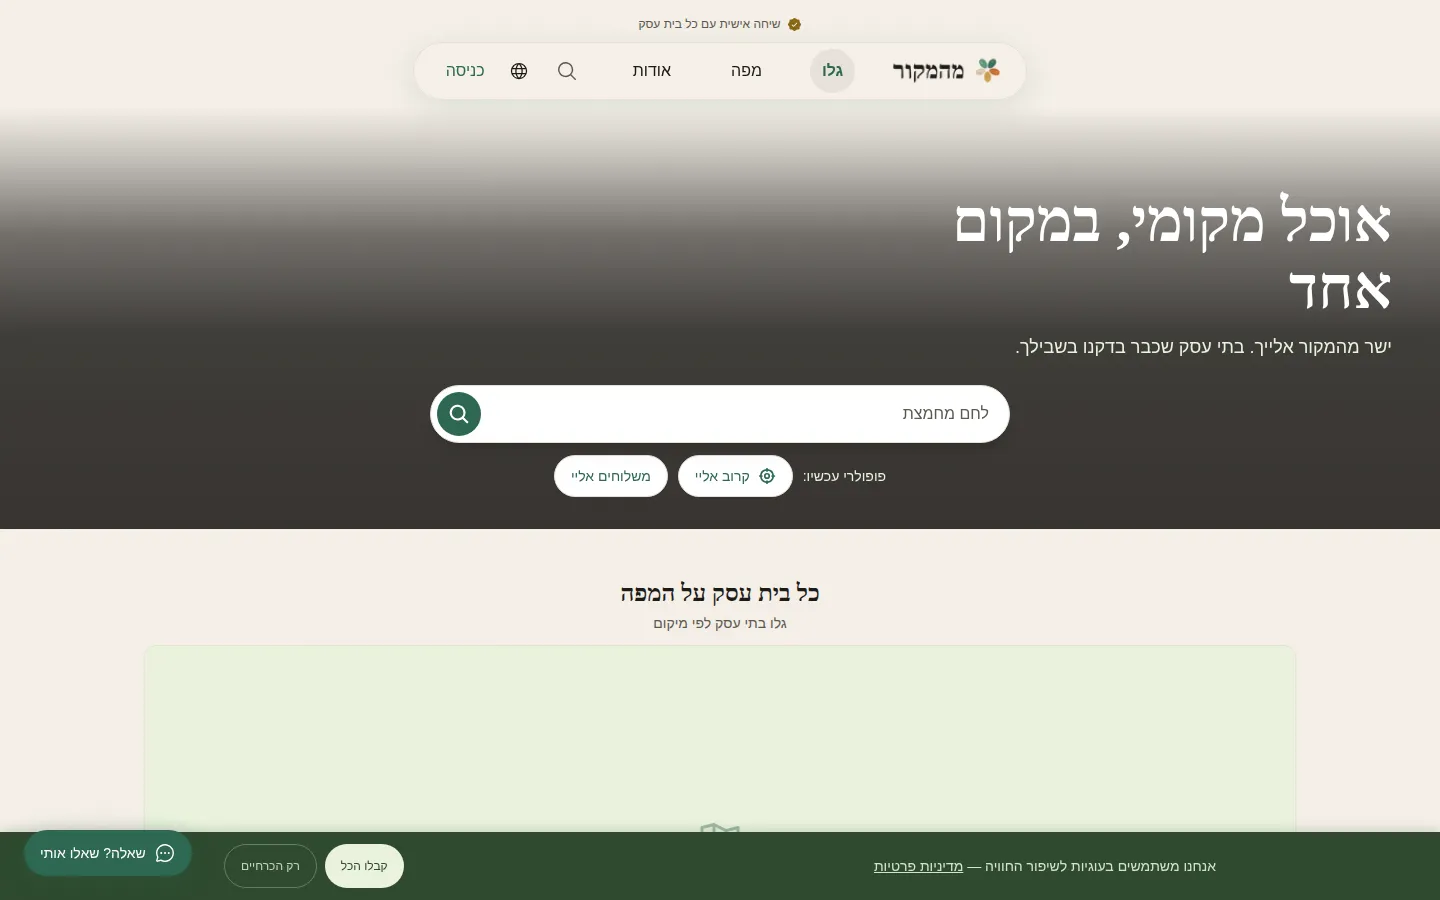
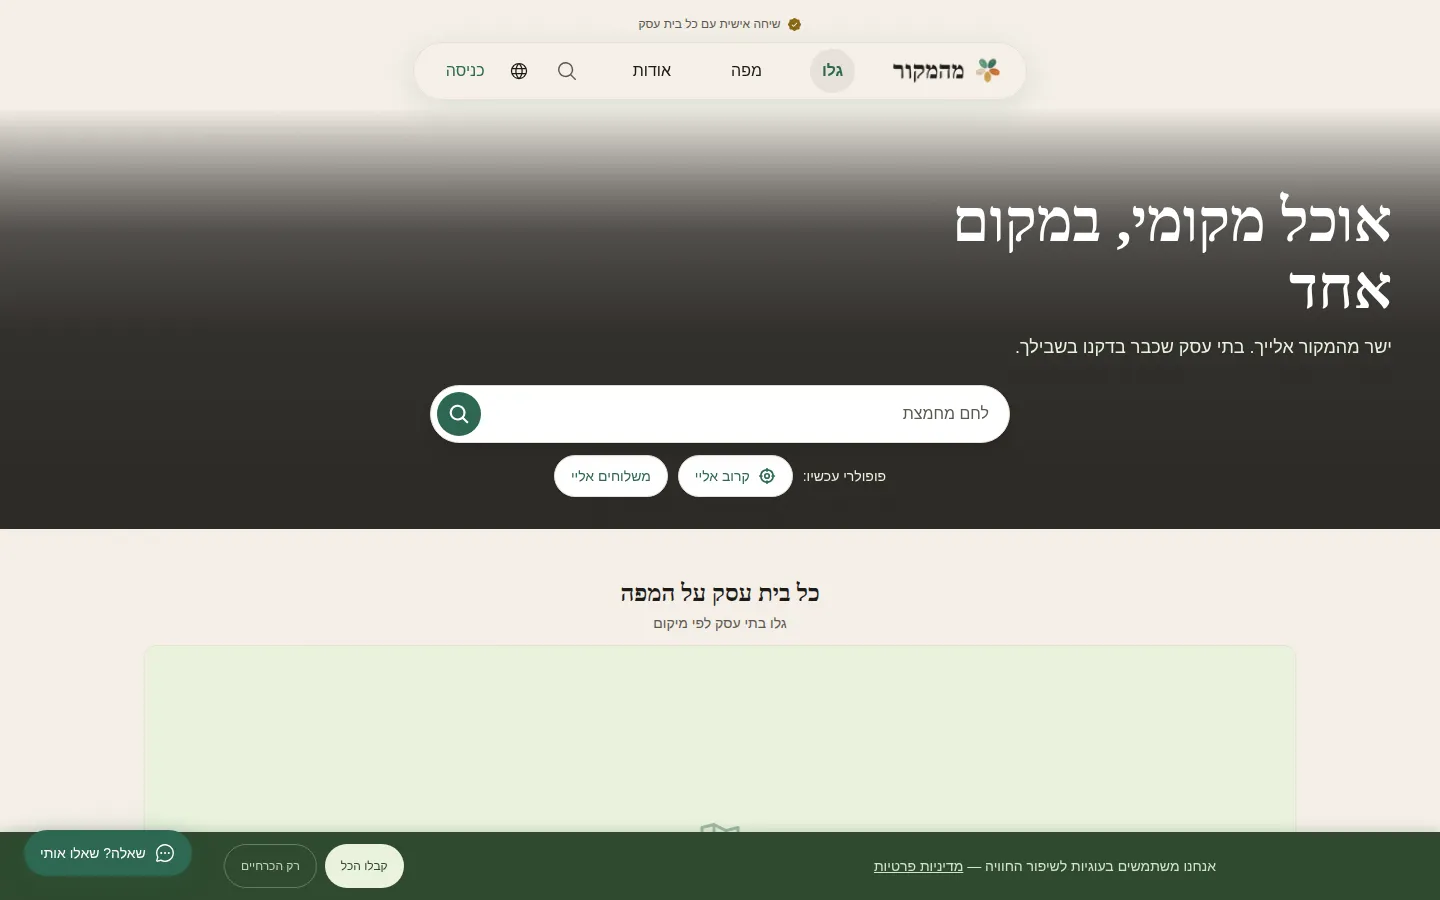
fix(home): restore the headline's AA margin the taller hero band consumed
Found by the local adversarial review, measured rather than argued.

`.scrim-ink` is a gradient over inset-0, so its stops are proportional to
the band height. Moving the pill and chips inside the band made it taller
and pushed the H1 from ~16% up the band to ~50% — into a far thinner part
of the same gradient. Worst case (the blown-white photo highlight that
globals.css:72 names), H1 top line:

  before  10.37:1 @375 · 8.41:1 @1440
  after    3.36:1 @375 · 3.54:1 @1440   ← under the mandatory 4.5:1

IS 5568 makes AA a legal requirement, and MEH-1771 set the precedent of
dropping an opacity-60 that measured 2.78:1 rather than shipping it. So
this is a fix, not a note. HEADLINE_SCRIM adds an absolute darkness floor
across the text zone that does not scale with band height, tapering to 0
at the top so the produce still reads: 5.89:1 / 6.10:1.

Raising the band's top padding was the other candidate and was rejected —
the arithmetic wants ~+118px on mobile, re-breaking the ~700-800px laptop
fold MEH-788 exists to protect. `.scrim-ink` itself is untouched: it is
shared, and the bottom band it draws is still correct.

The probe that caught this had to be rewritten first, and that is the more
transferable finding. Its first version re-implemented the .scrim-ink
stops in JS and composited them arithmetically — so it consulted a COPY of
the CSS instead of the page, returned byte-identical numbers before and
after a real scrim change, and could not have detected the regression it
[…]

Changed region(s): [[0.0, 0.1556, 1.0, 0.3422]]

diff --git a/frontend/app/[locale]/home/HomeHero.jsx b/frontend/app/[locale]/home/HomeHero.jsx
@@ -26,6 +26,33 @@ const HERO_IMAGE = optimizeCloudinary(
 // <MotionConfig reducedMotion="user"> at the layout root (#1053).
 const EASE_QUART = [0.25, 1, 0.5, 1];
 
+// MEH-1690: headline scrim reinforcement — REQUIRED by this ticket's own
+// restructure, not a style preference.
+//
+// `.scrim-ink` (globals.css) is a gradient over `inset-0`, so its stops are
+// proportional to the BAND HEIGHT. Moving the pill and chips inside the band
+// made it taller, which pushed the H1 from ~16% up the band to ~50% — into a
+// far thinner part of the same gradient. Measured worst case (scrim composited
+// over a blown-white photo highlight, the case globals.css:72 names) via
+// e2e/qa-meh1690-contrast.mjs:
+//
+//   H1 top line, before → 10.37:1 @375 · 8.41:1 @1440
+//   H1 top line, after  →  3.36:1 @375 · 3.54:1 @1440   ← under the 4.5:1 floor
+//
+// 4.5:1 is mandatory here: IS 5568 makes WCAG AA a legal requirement, and this
+// repo has the MEH-1771 precedent of dropping an `opacity-60` that measured
+// 2.78:1 rather than shipping it. Raising the band's top padding was rejected —
+// the arithmetic wants ~+118px on mobile, which re-breaks the ~700–800px laptop
+// fold MEH-788 exists to protect.
+//
+// So the veil restores an absolute darkness floor across the text zone,
+// independent of how tall the band grows, and tapers to 0 at the top so the
+// produce photo still reads there. Tuned against the probe, not by eye.
+// DO NOT edit `.scrim-ink` to fix this — it is shared, and the bottom band it
+// draws is still correct; this is additive and local to the hero.
+const HEADLINE_SCRIM =
+  "linear-gradient(to top, rgb(28 26 23 / 0.40) 0%, rgb(28 26 23 / 0.40) 70%, rgb(28 26 23 / 0) 100%)";
+
 // MEH-1684: the ONE chip style for the hero row. Shared as a constant (not
 // duplicated per button) so a future chip cannot drift into a second style,
 // which is the exact failure that ticket was undoing.
@@ -174,6 +201,9 @@ export function HomeHero({
             the chips, which is what lets a white pill and white chips hold
             contrast over any crop of the produce photo. */}
         <div className="scrim-ink absolute inset-0" />
+        {/* Additive darkness floor for the headline — see HEADLINE_SCRIM above.
+            Sits over `.scrim-ink` so the bottom band keeps its own weight. */}
+        <div className="absolute inset-0" style={{ backgroundImage: HEADLINE_SCRIM }} />
       </div>
 
       {/* Flow content — this is what DEFINES the band height now. `justify-end`
